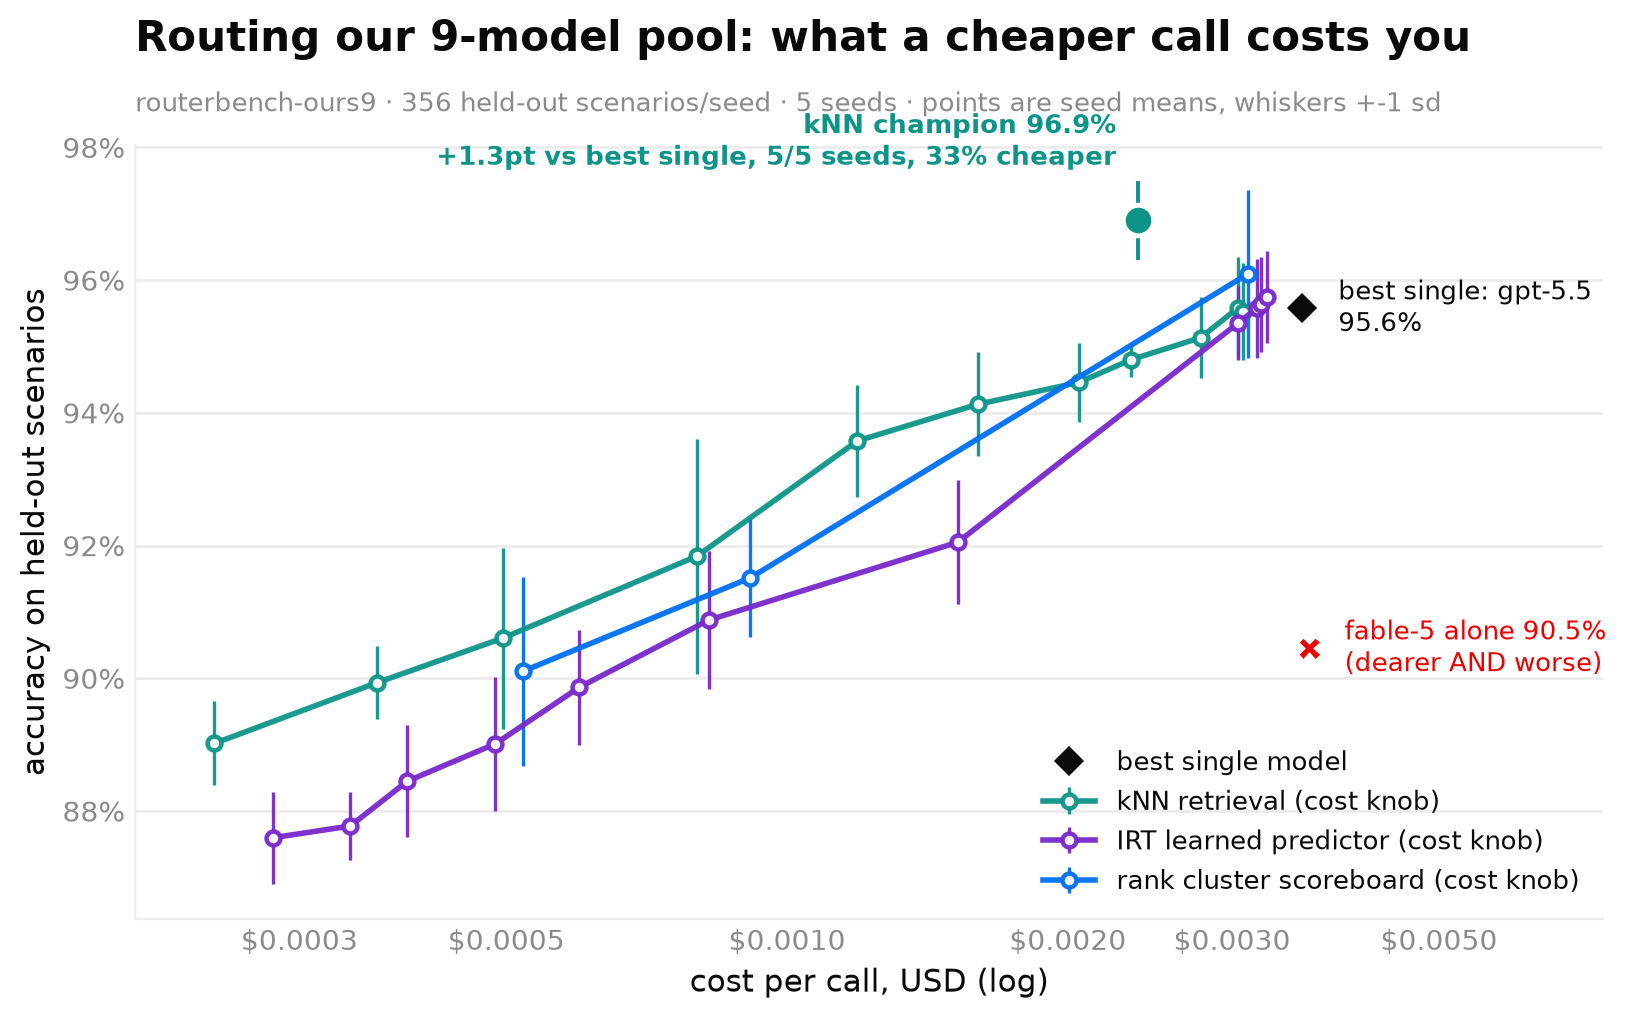
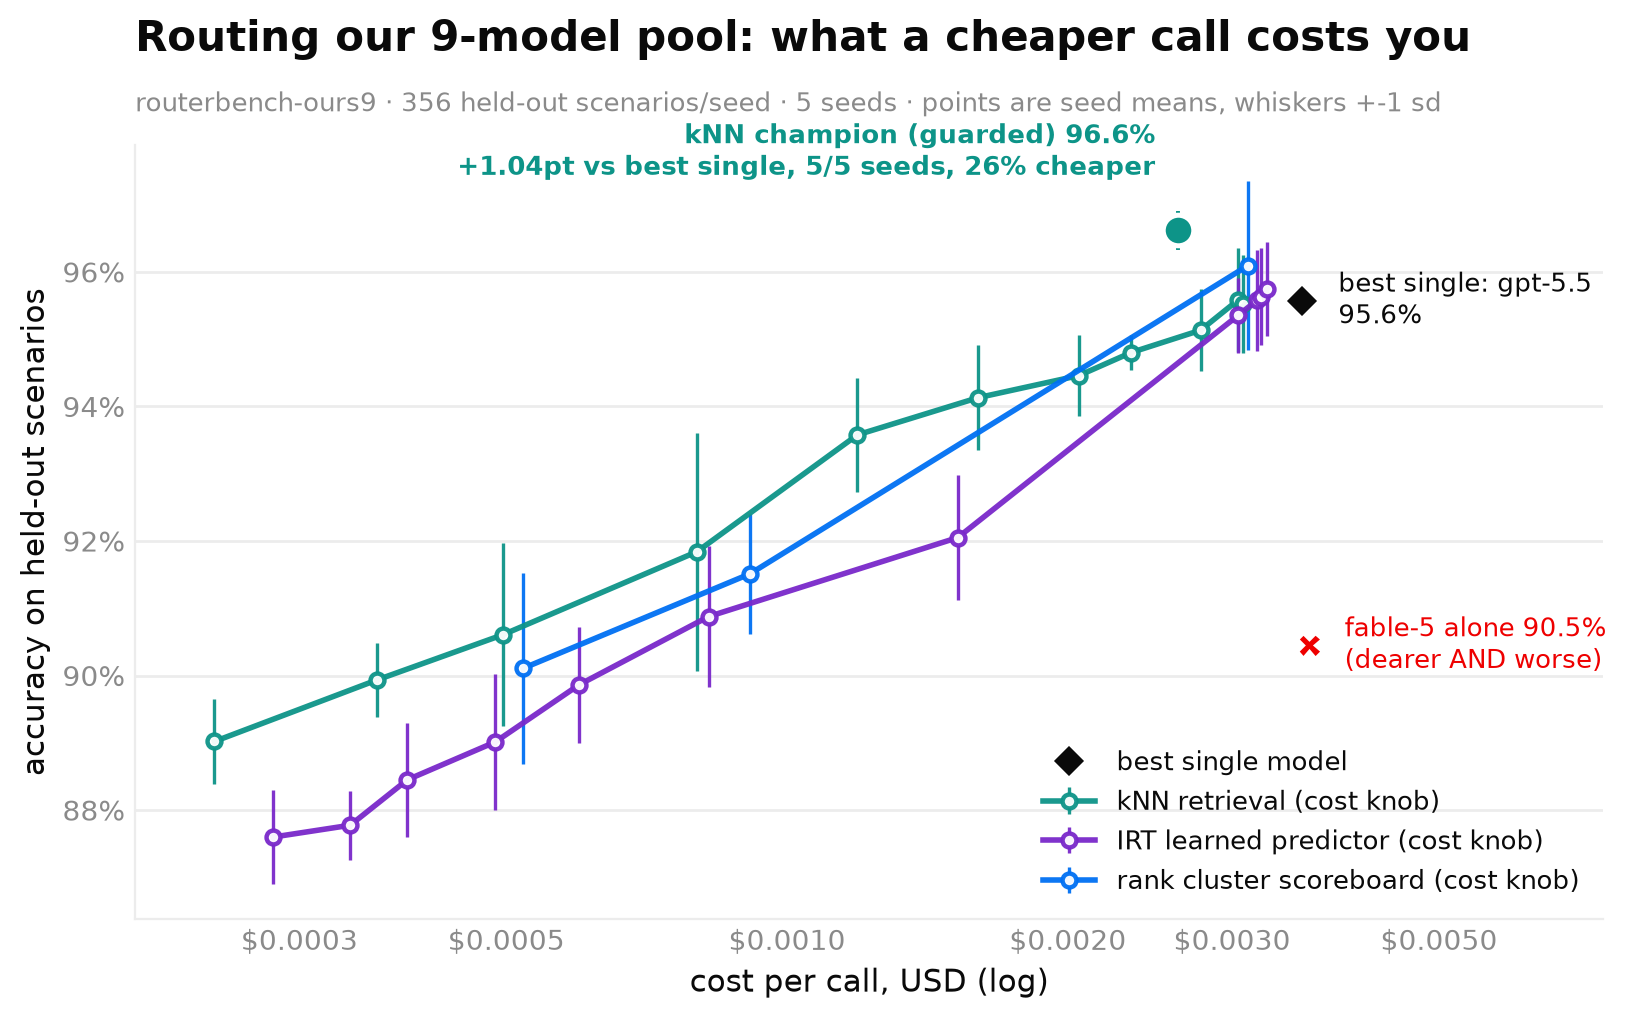
Research figures: mark the promoted guarded champion, not the ungated best delta

diff --git a/.agents/scripts/render_routing_figures.py b/.agents/scripts/render_routing_figures.py
@@ -69,6 +69,12 @@ CONFIDENCE_ROUTED_AWAY = [69.1, 68.0, 64.9, 48.0, 30.9]
 CONFIDENCE_ACC = [0.9607, 0.9607, 0.9607, 0.9635, 0.9579]
 
 HEADLINE_MATRIX = "routerbench-ours9"
+# The PROMOTED champion, pinned by name rather than picked by best delta. Unguarded kNN
+# variants score higher here (r1-knn-noguard-oai reaches +1.33pt) but are not deployable: the
+# guard is what keeps the router from dipping below baseline under distribution shift, which
+# is exactly the weakness PR #259 found and fixed. Labelling the ungated variant "champion"
+# would advertise a configuration we deliberately did not ship.
+CHAMPION_VARIANT = "r1-knn-statz05-oai"  # kNN + relative threshold + stat guard, z=0.5
 
 
 def load_groups() -> tuple[list[dict], int]:
@@ -159,8 +165,8 @@ def fig_pareto(groups: list[dict], plt: ModuleType) -> Path:
 
     anchor = next(g for g in rows if g["v"] == "best-single")
     champion = max(
-        (g for g in rows if g["fam"] == "knn" and g["tier"] == "beats"),
-        key=lambda g: g["d"] or 0.0,
+        (g for g in rows if g["v"] == CHAMPION_VARIANT and g["tier"] == "beats"),
+        key=lambda g: (g["s"], g["d"] or 0.0),
     )
     fable_cost = statistics.median([g["pmc"]["fable-5"] for g in rows if "fable-5" in g["pmc"]])
 
@@ -216,7 +222,8 @@ def fig_pareto(groups: list[dict], plt: ModuleType) -> Path:
         fmt="none",
     )
     ax.annotate(
-        f"kNN champion {champion['acc']:.1%}\n{100 * champion['d']:+.1f}pt vs best single, "
+        f"kNN champion (guarded) {champion['acc']:.1%}\n"
+        f"{100 * champion['d']:+.2f}pt vs best single, "
         f"{champion['w']}/{champion['s']} seeds, "
         f"{1 - champion['cost'] / anchor['cost']:.0%} cheaper",
         xy=(champion["cost"], champion["acc"]),
